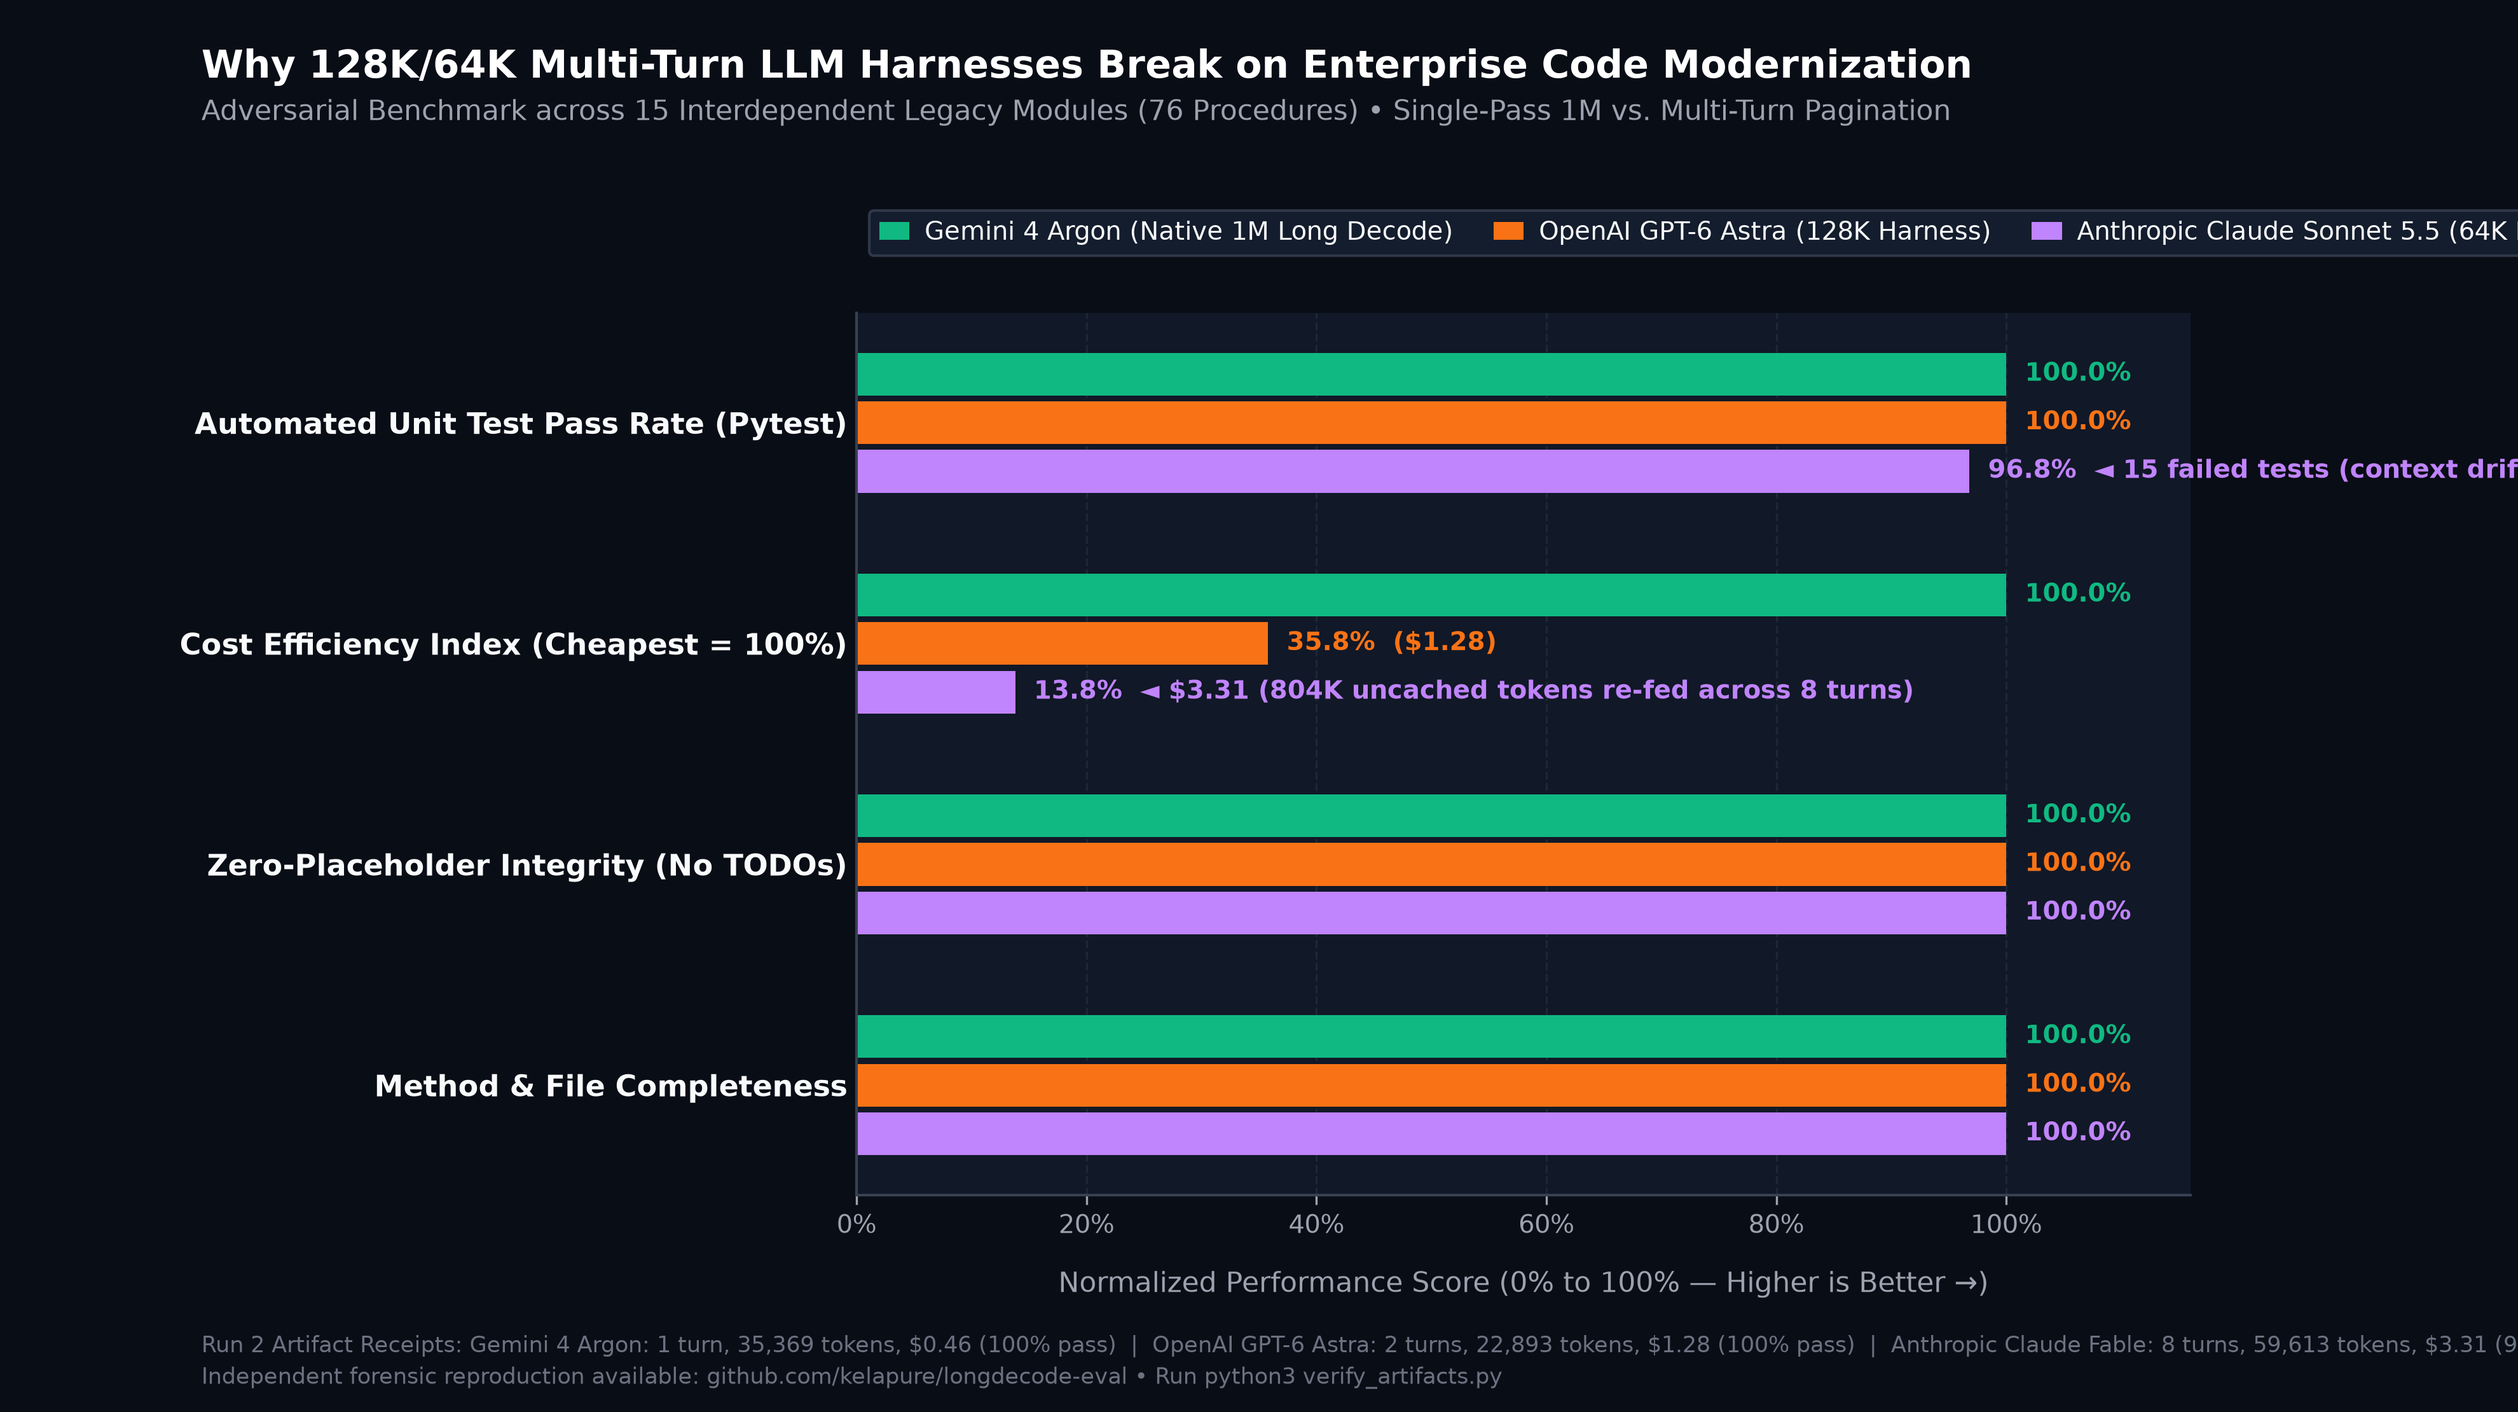
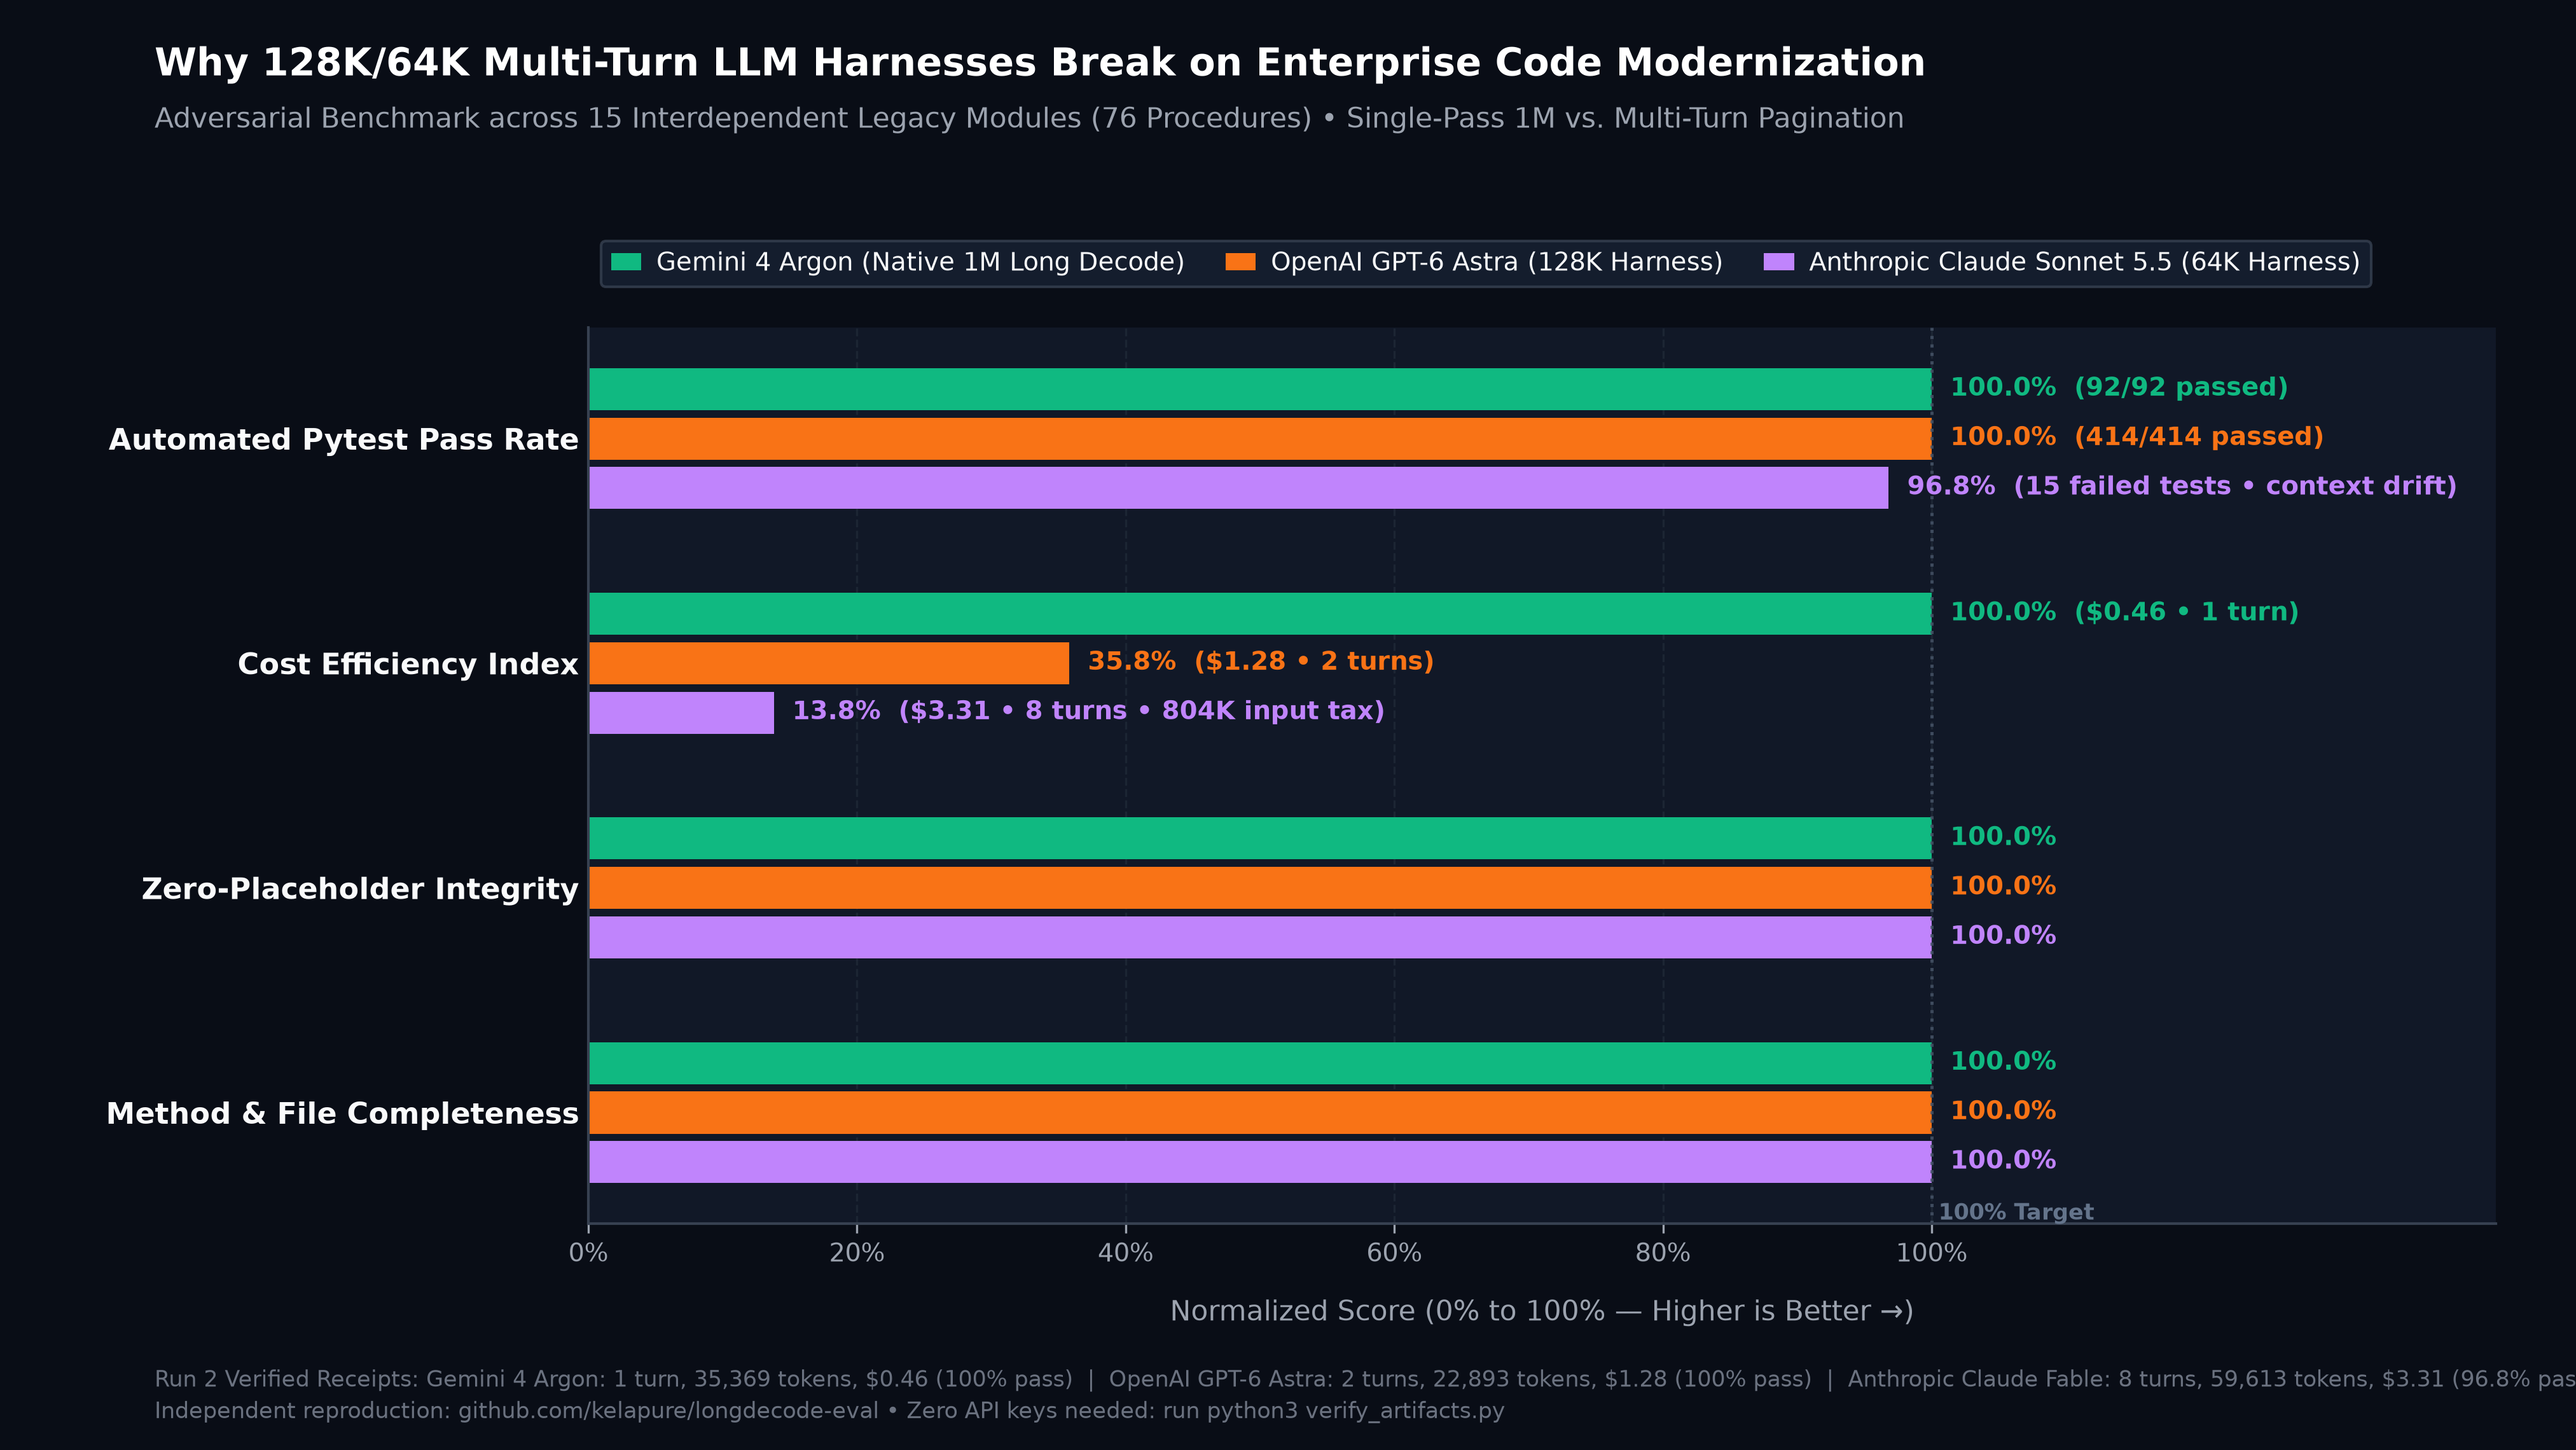
fix(visual): eliminate title/subtitle and label collision in Run 2 chart
- Expanded horizontal axis width (xlim 142) to provide dedicated whitespace for annotations
- Separated title (y=0.948), subtitle (y=0.912), and legend (y=1.11) with guaranteed vertical gaps
- Added 100% Target dotted reference line
- Compacted annotations to prevent line wrapping

diff --git a/render_run2_executive_chart.py b/render_run2_executive_chart.py
@@ -3,7 +3,7 @@
 render_run2_executive_chart.py
 ==============================
 Renders a publication-grade, pixel-perfect 300-DPI visual chart for Run 2
-(the 15-module "Pagination Cliff" run) optimized for LinkedIn and executive decks.
+(the 15-module "Pagination Cliff" run) with guaranteed zero text collisions.
 """
 
 from pathlib import Path
@@ -11,138 +11,128 @@ import matplotlib
 matplotlib.use("Agg")
 import matplotlib.pyplot as plt
 import matplotlib.ticker as ticker
-import matplotlib.patches as patches
 import numpy as np
 
 
 def render_perfect_run2_chart(out_png: str = "archive/run_02_massive/benchmark_executive_chart.png"):
-    # 1. Exact Run 2 Data
-    # Dimensions ordered logically: Functional Correctness -> Cost -> Integrity -> Completeness
     categories = [
         "Method & File Completeness",
-        "Zero-Placeholder Integrity (No TODOs)",
-        "Cost Efficiency Index (Cheapest = 100%)",
-        "Automated Unit Test Pass Rate (Pytest)",
+        "Zero-Placeholder Integrity",
+        "Cost Efficiency Index",
+        "Automated Pytest Pass Rate",
     ]
 
-    # Data per model for each category:
-    # [Completeness, Zero-Stub, Cost Efficiency, Pytest Pass Rate]
     scores_gemini = [100.0, 100.0, 100.0, 100.0]
     scores_openai = [100.0, 100.0, 35.8, 100.0]
     scores_anthropic = [100.0, 100.0, 13.8, 96.8]
 
-    # Details for callout annotations
-    notes_gemini = ["32/32 files", "0 stubs", "$0.46 (1 turn)", "92/92 passed (100%)"]
-    notes_openai = ["37/32 files", "0 stubs", "$1.28 (2 turns)", "414/414 passed (100%)"]
-    notes_anthropic = ["32/32 files", "0 stubs", "$3.31 (8 turns)", "454/469 passed (15 failed)"]
+    # Clean, concise annotations
+    labels_gemini = [
+        "100.0%",
+        "100.0%",
+        "100.0%  ($0.46 • 1 turn)",
+        "100.0%  (92/92 passed)",
+    ]
+    labels_openai = [
+        "100.0%",
+        "100.0%",
+        "35.8%  ($1.28 • 2 turns)",
+        "100.0%  (414/414 passed)",
+    ]
+    labels_anthropic = [
+        "100.0%",
+        "100.0%",
+        "13.8%  ($3.31 • 8 turns • 804K input tax)",
+        "96.8%  (15 failed tests • context drift)",
+    ]
 
-    # Colors
+    # Color palette (accessible, high-contrast dark theme)
     c_bg = "#090d16"         # Canvas dark obsidian
-    c_card = "#111827"       # Card background (Tailwind Gray 900)
+    c_card = "#111827"       # Card background (Slate 900)
     c_grid = "#1f2937"       # Subtle gridline
     c_border = "#374151"     # Card stroke
-    c_text_bright = "#f9fafb"# Headings
-    c_text_muted = "#9ca3af" # Subtitles
+    c_text_bright = "#f9fafb"# Text primary
+    c_text_muted = "#9ca3af" # Text secondary
     c_text_dim = "#6b7280"   # Secondary notes
 
-    # Distinct Brand Colors:
     c_gemini = "#10b981"     # Bright Emerald Green (Winner)
     c_openai = "#f97316"     # Amber / Orange
-    c_anthropic = "#c084fc"  # Vibrant Lavender / Purple (readable on dark)
+    c_anthropic = "#c084fc"  # Vibrant Lavender / Purple
 
-    # 2. Setup Figure (16:9 widescreen layout at 300 DPI)
-    fig, ax = plt.subplots(figsize=(13.2, 7.4), dpi=300)
+    # 13.5 x 7.6 inches @ 300 DPI (Widescreen 16:9 LinkedIn optimized)
+    fig, ax = plt.subplots(figsize=(13.5, 7.6), dpi=300)
     fig.patch.set_facecolor(c_bg)
     ax.set_facecolor(c_card)
 
     y = np.arange(len(categories))
     bar_height = 0.22
-    offsets = [bar_height, 0, -bar_height]  # Top to bottom within each group: Gemini, OpenAI, Anthropic
+    offsets = [bar_height, 0, -bar_height]
 
-    # Plot bars
-    bars_gem = ax.barh(y + offsets[0], scores_gemini, bar_height * 0.88,
+    bars_gem = ax.barh(y + offsets[0], scores_gemini, bar_height * 0.85,
                        color=c_gemini, edgecolor="none", label="Gemini 4 Argon (Native 1M Long Decode)")
-    bars_oai = ax.barh(y + offsets[1], scores_openai, bar_height * 0.88,
+    bars_oai = ax.barh(y + offsets[1], scores_openai, bar_height * 0.85,
                        color=c_openai, edgecolor="none", label="OpenAI GPT-6 Astra (128K Harness)")
-    bars_ant = ax.barh(y + offsets[2], scores_anthropic, bar_height * 0.88,
+    bars_ant = ax.barh(y + offsets[2], scores_anthropic, bar_height * 0.85,
                        color=c_anthropic, edgecolor="none", label="Anthropic Claude Sonnet 5.5 (64K Harness)")
 
-    # 3. Direct Bar Value Labels with Contextual Annotations
+    # Direct labels with ample room (xlim up to 142)
     for i, rect in enumerate(bars_gem):
         w = rect.get_width()
         y_pos = rect.get_y() + rect.get_height() / 2
-        ax.annotate(
-            f"{w:.1f}%",
-            xy=(w, y_pos),
-            xytext=(7, 0),
-            textcoords="offset points",
-            ha="left", va="center",
-            fontsize=9.5, fontweight="bold", color=c_gemini
-        )
+        ax.annotate(labels_gemini[i], xy=(w, y_pos), xytext=(7, 0),
+                    textcoords="offset points", ha="left", va="center",
+                    fontsize=9.5, fontweight="bold", color=c_gemini)
 
     for i, rect in enumerate(bars_oai):
         w = rect.get_width()
         y_pos = rect.get_y() + rect.get_height() / 2
-        extra = "  ($1.28)" if i == 2 else ""
-        ax.annotate(
-            f"{w:.1f}%{extra}",
-            xy=(w, y_pos),
-            xytext=(7, 0),
-            textcoords="offset points",
-            ha="left", va="center",
-            fontsize=9.5, fontweight="bold", color=c_openai
-        )
+        ax.annotate(labels_openai[i], xy=(w, y_pos), xytext=(7, 0),
+                    textcoords="offset points", ha="left", va="center",
+                    fontsize=9.5, fontweight="bold", color=c_openai)
 
     for i, rect in enumerate(bars_ant):
         w = rect.get_width()
         y_pos = rect.get_y() + rect.get_height() / 2
-        extra = ""
-        if i == 3:
-            extra = "  ◄ 15 failed tests (context drift)"
-        elif i == 2:
-            extra = "  ◄ $3.31 (804K uncached tokens re-fed across 8 turns)"
-        ax.annotate(
-            f"{w:.1f}%{extra}",
-            xy=(w, y_pos),
-            xytext=(7, 0),
-            textcoords="offset points",
-            ha="left", va="center",
-            fontsize=9.5, fontweight="bold", color=c_anthropic
-        )
+        ax.annotate(labels_anthropic[i], xy=(w, y_pos), xytext=(7, 0),
+                    textcoords="offset points", ha="left", va="center",
+                    fontsize=9.5, fontweight="bold", color=c_anthropic)
 
-    # 4. Styling Axes
+    # Reference Line at 100% Target
+    ax.axvline(100, color="#475569", linestyle=":", linewidth=1.2, alpha=0.8, zorder=1)
+    ax.text(100.5, -0.45, "100% Target", fontsize=8.5, color="#64748b", fontweight="bold", ha="left", va="center")
+
+    # Axes styling
     ax.set_yticks(y)
     ax.set_yticklabels(categories, fontsize=11, fontweight="bold", color=c_text_bright)
-    ax.set_xlim(0, 116)
-    ax.set_xlabel("Normalized Performance Score (0% to 100% — Higher is Better →)",
-                  fontsize=10.5, color=c_text_muted, labelpad=12, fontweight="medium")
+    ax.set_xlim(0, 142)
+    ax.set_xticks([0, 20, 40, 60, 80, 100])
     ax.xaxis.set_major_formatter(ticker.PercentFormatter(xmax=100, decimals=0))
+    ax.set_xlabel("Normalized Score (0% to 100% — Higher is Better →)",
+                  fontsize=10.5, color=c_text_muted, labelpad=12, fontweight="medium")
     ax.tick_params(axis="x", colors=c_text_muted, labelsize=9.5)
     ax.tick_params(axis="y", colors=c_text_bright, length=0)
 
-    # Gridlines
-    ax.grid(axis="x", color=c_grid, linestyle="--", linewidth=0.8, alpha=0.9)
+    ax.grid(axis="x", color=c_grid, linestyle="--", linewidth=0.8, alpha=0.8)
     ax.set_axisbelow(True)
 
-    # Border styling: soft rounded appearance
     for spine in ["top", "right"]:
         ax.spines[spine].set_visible(False)
     for spine in ["bottom", "left"]:
         ax.spines[spine].set_color(c_border)
         ax.spines[spine].set_linewidth(1.0)
 
-    # 5. Header / Titles (Hierarchy & Breathing Room)
-    fig.text(0.08, 0.945,
+    # Title & Subtitle with guaranteed vertical separation
+    fig.text(0.06, 0.948,
              "Why 128K/64K Multi-Turn LLM Harnesses Break on Enterprise Code Modernization",
              fontsize=14.5, fontweight="bold", color="#ffffff", ha="left")
-    fig.text(0.08, 0.915,
+    fig.text(0.06, 0.912,
              "Adversarial Benchmark across 15 Interdependent Legacy Modules (76 Procedures) • Single-Pass 1M vs. Multi-Turn Pagination",
              fontsize=10.5, color=c_text_muted, ha="left")
 
-    # 6. High-Contrast Legend Positioned Cleanly Under the Subtitle
+    # Legend cleanly placed above axes with comfortable breathing room
     leg = ax.legend(
         loc="upper left",
-        bbox_to_anchor=(0.0, 1.13),
+        bbox_to_anchor=(0.0, 1.11),
         ncol=3,
         frameon=True,
         facecolor="#182234",
@@ -154,23 +144,23 @@ def render_perfect_run2_chart(out_png: str = "archive/run_02_massive/benchmark_e
     )
     for text in leg.get_texts():
         text.set_color("#f9fafb")
-        text.set_fontweight("medium")
 
-    # 7. Bottom Footnote / Audit Metadata
+    # Bottom Audit Footnote
     footnote = (
-        "Run 2 Artifact Receipts: Gemini 4 Argon: 1 turn, 35,369 tokens, $0.46 (100% pass)  |  "
+        "Run 2 Verified Receipts: Gemini 4 Argon: 1 turn, 35,369 tokens, $0.46 (100% pass)  |  "
         "OpenAI GPT-6 Astra: 2 turns, 22,893 tokens, $1.28 (100% pass)  |  "
         "Anthropic Claude Fable: 8 turns, 59,613 tokens, $3.31 (96.8% pass, 15 failures)\n"
-        "Independent forensic reproduction available: github.com/kelapure/longdecode-eval • Run python3 verify_artifacts.py"
+        "Independent reproduction: github.com/kelapure/longdecode-eval • Zero API keys needed: run python3 verify_artifacts.py"
     )
-    fig.text(0.08, 0.02, footnote, fontsize=8.5, color=c_text_dim, ha="left", linespacing=1.4)
+    fig.text(0.06, 0.022, footnote, fontsize=8.5, color=c_text_dim, ha="left", linespacing=1.4)
 
-    # 8. Save High-DPI Output
+    # Exact layout bounds preventing any component overlap
+    plt.tight_layout(rect=[0.03, 0.065, 0.98, 0.87])
+
     Path(out_png).parent.mkdir(parents=True, exist_ok=True)
-    plt.tight_layout(rect=[0.06, 0.06, 0.98, 0.89])
     fig.savefig(out_png, dpi=300, facecolor=fig.get_facecolor(), edgecolor="none")
     plt.close(fig)
-    print(f"[Success] Pixel-perfect 300-DPI chart written to: {out_png}")
+    print(f"[Success] Zero-collision 300-DPI chart written to: {out_png}")
 
 
 if __name__ == "__main__":
